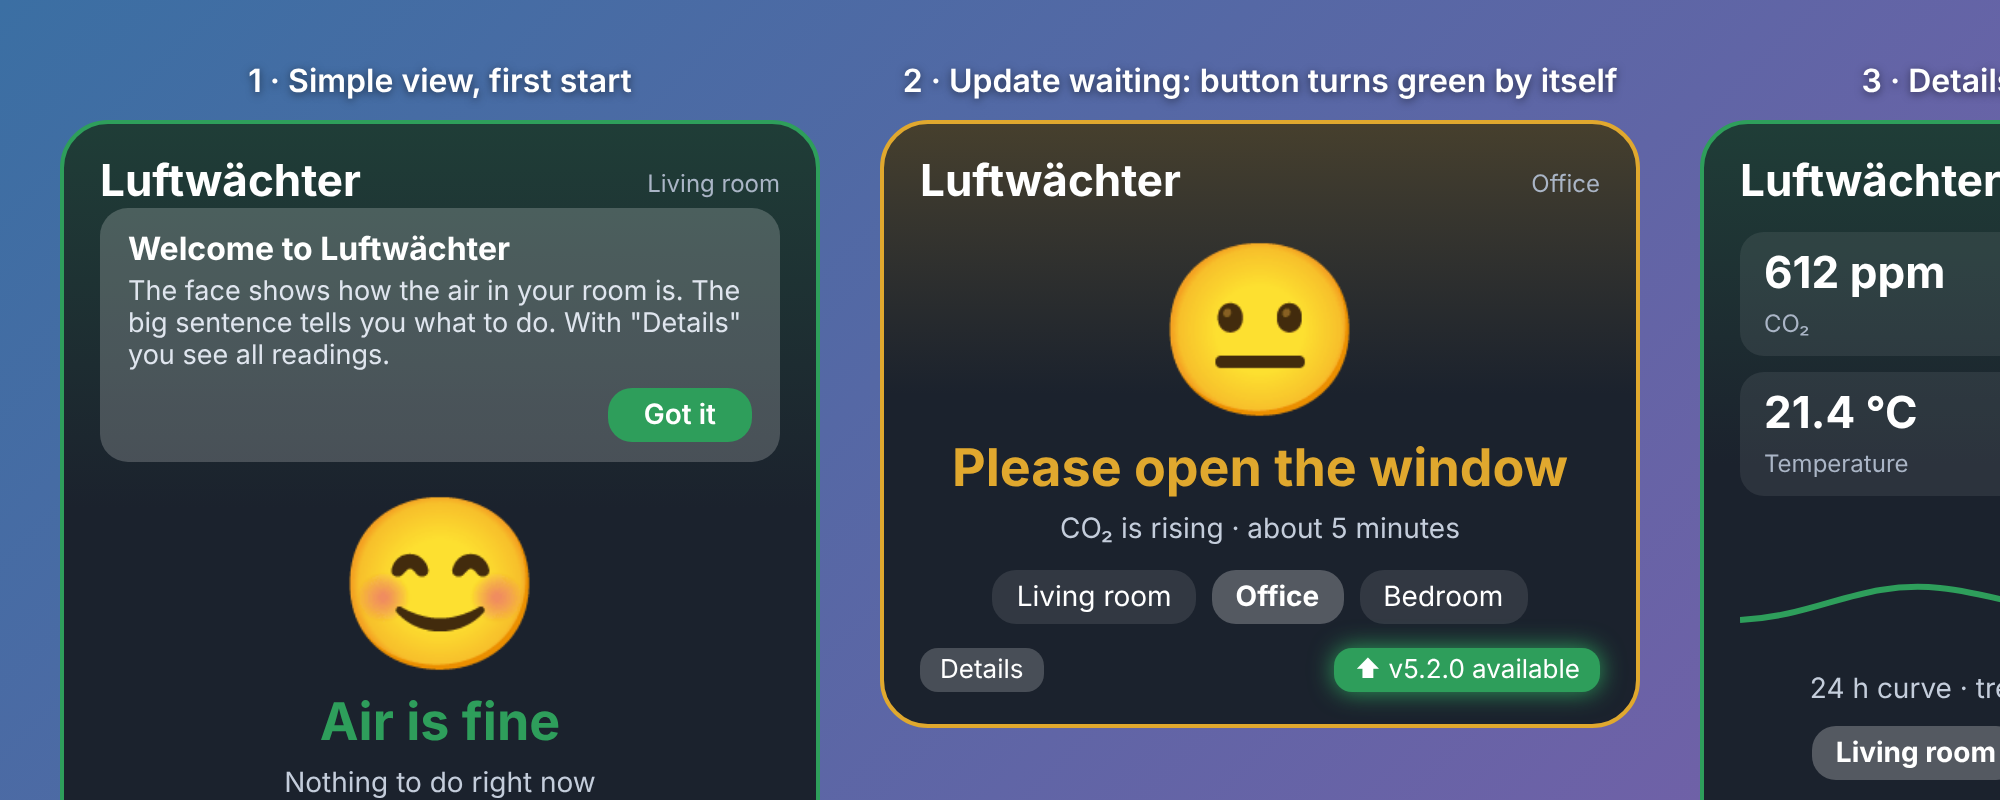
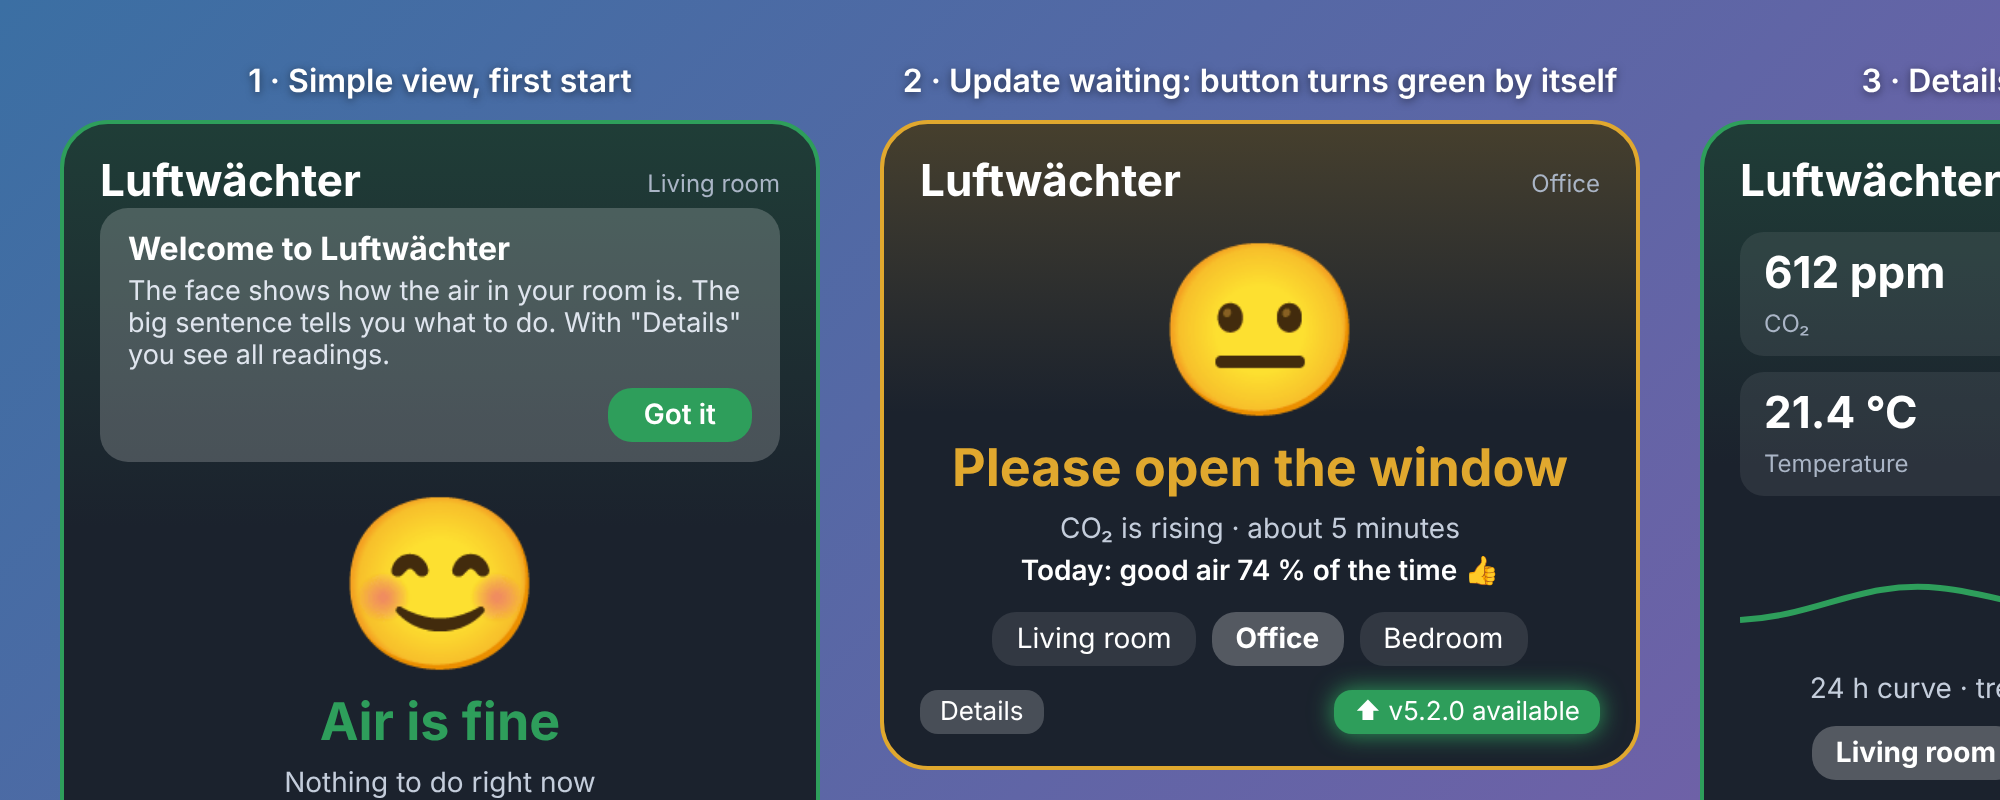
v5.3.0: daily air score in simple view
Claude-Session: https://claude.ai/code/session_01W38UNCWRvMYfcRr6jVyi8m

Changed region(s): [[0.434, 0.6875, 0.837, 0.9688]]

diff --git a/README.md b/README.md
@@ -17,6 +17,7 @@ A small always-on-top **Windows desktop widget** that shows how good the air is 
 - Hourly weather outlook, rain-aware advice, tray icon with notifications
 - **Update button:** checks this repository by itself (every 60 minutes by default) and turns green with the new version number when one is waiting; one click shows what changed and updates after you confirm
 - **Welcome card** on first start explains the simple view in three sentences
+- **Daily air score** in the simple view: "Today: good air 92 % of the time", counted from today's readings
 
 Made by **Dan Stasiak** · MIT License · [github.com/DanStasiak/airguard-widget](https://github.com/DanStasiak/airguard-widget)
 
@@ -87,6 +88,6 @@ MIT License, Copyright (c) 2026 Dan Stasiak. You may use, change and share it fr
 
 **Sensoren wählen:** Hat ein Raum mehrere Sensoren derselben Art, zeigt das Widget den Mittelwert (Taupunkt, Geräte-Temperatur und veraltete Sensoren werden ignoriert). Rechtsklick → „Sensoren für diesen Raum wählen…“ legt je Messwert genau einen Sensor fest. Meldet ein Sensor 20 Minuten nichts, warnt die Fußzeile in Gelb.
 
-**Aktualisieren:** Knopf **⟳ Update** unten rechts. Das Widget vergleicht seine Version mit GitHub, zeigt die Änderungen, fragt nach deiner Bestätigung, prüft den Download und tauscht sich selbst aus. Einstellungen bleiben erhalten. Das Widget prüft auch von selbst (standardmäßig alle 60 Minuten, `updateCheckMinutes` in `config.json`): Gibt es eine neue Version, wird der Knopf grün und zeigt die Versionsnummer; zusätzlich erscheint einmal eine Hinweis-Meldung im Infobereich. Beim ersten Start erklärt eine kurze Willkommenskarte die einfache Ansicht.
+**Aktualisieren:** Knopf **⟳ Update** unten rechts. Das Widget vergleicht seine Version mit GitHub, zeigt die Änderungen, fragt nach deiner Bestätigung, prüft den Download und tauscht sich selbst aus. Einstellungen bleiben erhalten. Das Widget prüft auch von selbst (standardmäßig alle 60 Minuten, `updateCheckMinutes` in `config.json`): Gibt es eine neue Version, wird der Knopf grün und zeigt die Versionsnummer; zusätzlich erscheint einmal eine Hinweis-Meldung im Infobereich. Beim ersten Start erklärt eine kurze Willkommenskarte die einfache Ansicht. In der einfachen Ansicht zeigt eine Tagesnote, wie oft die Luft heute gut war (CO₂ unter 1000 ppm).
 
 **Lizenz:** MIT, © 2026 Dan Stasiak. Frei nutzbar, änderbar und weitergebbar; der Urheberhinweis muss erhalten bleiben.

diff --git a/CHANGELOG.md b/CHANGELOG.md
@@ -2,6 +2,9 @@
 
 All notable changes. Format: [Semantic Versioning](https://semver.org). The text of each release section is shown to users in the in-app update dialog.
 
+## [5.3.0] - 2026-11-22
+- New: the simple view shows a friendly daily air score under the advice, for example "Today: good air 92 % of the time ⭐". It counts the share of today's readings with CO₂ under 1000 ppm (needs about 20 minutes of data) and resets at midnight.
+
 ## [5.2.0] - 2026-11-22
 - New: the widget now checks for updates by itself every 60 minutes (set `updateCheckMinutes` in config.json, 15 to 1440). When a new version exists, the Update button turns green, pulses gently and shows the version number, and a tray notice appears once. Hover the button to see when it was last checked.
 - Docs: new screenshots and descriptions on the GitHub page.
